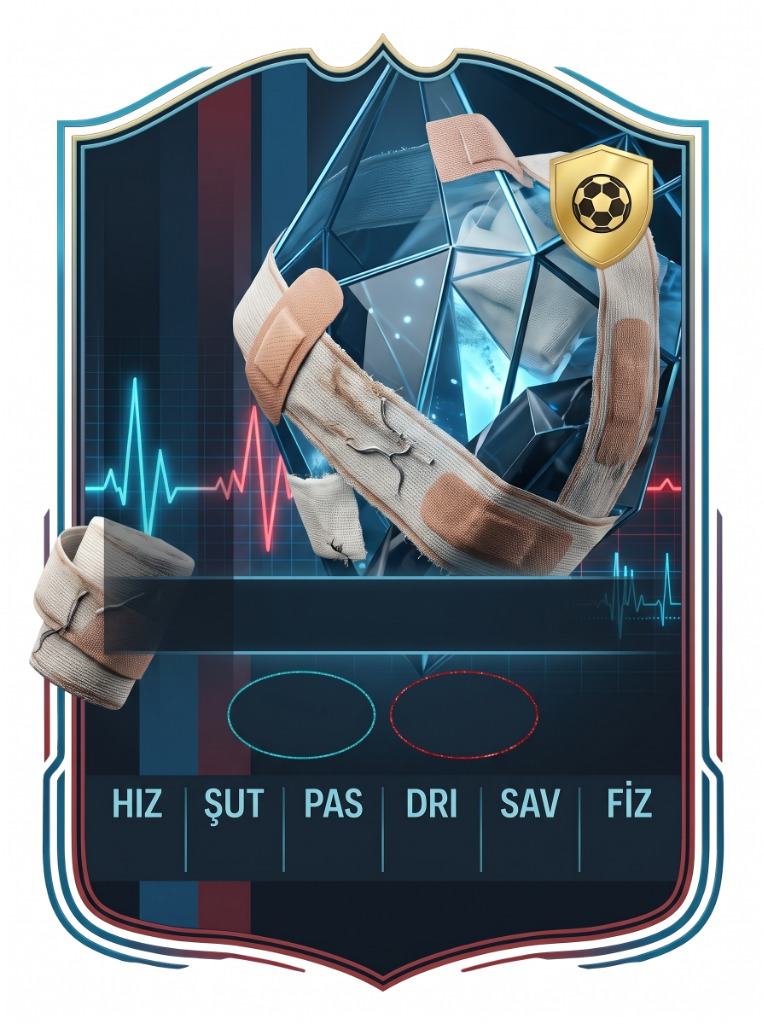
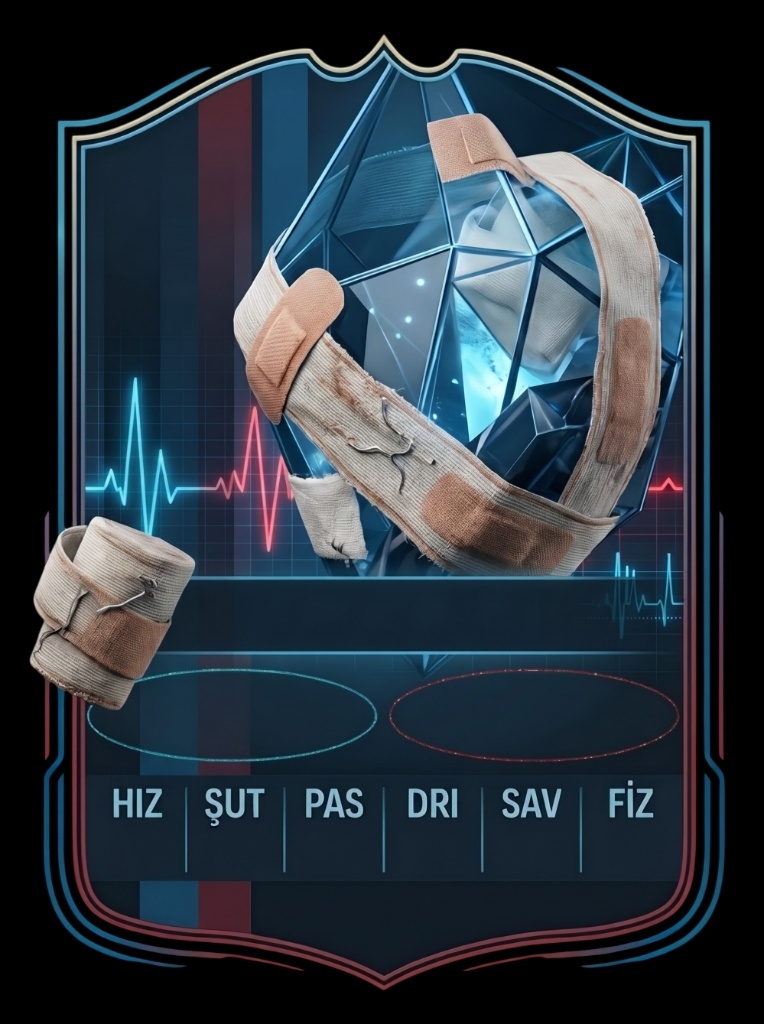
feat: update Revir Raporlu card template and 3D medical shield with clean transparency

diff --git a/src/components/card/FCCard.tsx b/src/components/card/FCCard.tsx
@@ -142,7 +142,7 @@ export const FCCard: React.FC<Props> = ({
           statValColor: 'text-[#BAE6FD]',
           ovalTextColor: 'text-sky-200',
           ovalIconColor: 'text-sky-400',
-          nameTop: 'top-[52.0%]',
+          nameTop: 'top-[53.8%]',
           statTop: 'top-[82.4%]',
           statBounds: 'left-[11.3%] right-[11.3%]',
           ovalsTop: 'top-[65.2%]',
